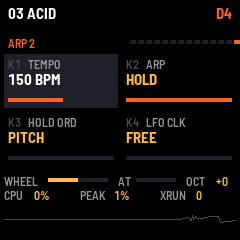
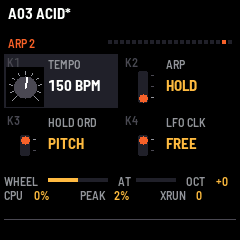
MB-1 0.12.1: the screen draws each parameter as the patch editor does
A knob (a choice's positions as a rotary switch's), a fader for the mixer's levels and the envelopes, a slide
switch for the two- and three-way choices; the value beside it, as large as fits. The manual's pictures redone.

Claude-Session: https://claude.ai/code/session_015VhpbL4VK8RUpw8F1mPpMk

diff --git a/app/app.c b/app/app.c
@@ -1330,6 +1330,72 @@ static void bar(int32_t x, int32_t y, int32_t w, uint32_t v, uint32_t max, int b
     }
 }
 
+/* a parameter drawn as the editor draws it (app/editor/index.html): a knob, a fader (the mixer's levels, the
+ * envelopes) or a slide switch (the two- and three-way choices); the knobs' choices click round as rotary switches */
+enum { K_KNOB, K_FADER, K_SWITCH };
+static uint32_t ctl_kind(uint32_t p)
+{
+    switch (p) {
+    case P_SUB: case P_SAW: case P_SQR: case P_TRI: case P_NOISE:
+    case P_FA: case P_FD: case P_FS: case P_FR: case P_AA: case P_AD: case P_AS: case P_AR:
+        return K_FADER;
+    case P_SUBSHP: case P_SUBOCT: case P_WDEST: case P_PLAY: case P_VTYPE: case P_LRTRG: case P_ARP:
+    case P_DSYNC: case P_DMODE: case P_FXORD: case G_HORD: case G_LSYNC:
+        return K_SWITCH;
+    default:
+        return K_KNOB;
+    }
+}
+static void disk(int32_t cx, int32_t cy, int32_t r, uint16_t c)
+{
+    int32_t dy;
+    for (dy = -r; dy <= r; dy++) {
+        int32_t w = (int32_t)(fm_sqrtf((float)(r * r - dy * dy)) + 0.5f);
+        cv_rect(cx - w, cy + dy, 2 * w + 1, 1, c);
+    }
+}
+static void ray(int32_t cx, int32_t cy, float deg, float r0, float r1, uint16_t c)   /* 0 deg: up, clockwise */
+{
+    float a = deg * 0.017453293f, sx = fm_sinf(a), sy = -fm_cosf(a);
+    cv_line(cx + (int32_t)(sx * r0 + (sx < 0 ? -0.5f : 0.5f)), cy + (int32_t)(sy * r0 + (sy < 0 ? -0.5f : 0.5f)),
+            cx + (int32_t)(sx * r1 + (sx < 0 ? -0.5f : 0.5f)), cy + (int32_t)(sy * r1 + (sy < 0 ? -0.5f : 0.5f)), c);
+}
+static void ctl_draw(uint32_t p, uint32_t v, int32_t cx, int32_t cy, int lit)
+{
+    uint32_t max = pmax(p), kind = ctl_kind(p), k;
+    uint16_t hand = lit ? C_WHITE : C_ACCENT;
+    if (kind == K_FADER) {                   /* a slot, a cap at the level, ticks beside */
+        int32_t top = cy - 19, h = 38, at = top + h - (int32_t)(v * (uint32_t)h / (max ? max : 1u));
+        for (k = 0; k <= 4u; k++)
+            cv_rect(cx + 8, top + (int32_t)k * h / 4, 4, 1, C_GRAY);
+        cv_rect(cx - 2, top, 4, h + 1, C_LINE);
+        cv_rect(cx - 7, at - 2, 14, 5, hand);
+    } else if (kind == K_SWITCH) {           /* a rounded slot, the dot at its position (the first at the top) */
+        uint32_t n = max + 1u;
+        int32_t gap = 11, h = gap * (int32_t)(n - 1u) + 12, top = cy - h / 2;
+        cv_rect(cx - 5, top + 2, 10, h - 4, C_LINE);
+        cv_rect(cx - 4, top + 1, 8, h - 2, C_LINE);
+        for (k = 0; k < n; k++)
+            cv_rect(cx + 8, top + 5 + (int32_t)k * gap, 3, 1, k == v ? C_GRAY : C_DIM);
+        disk(cx, top + 6 + (int32_t)(v < n ? v : 0u) * gap, 4, hand);
+    } else {                                 /* a knob: its ticks (a choice's positions), the cap, the pointer */
+        int en = is_enum(pinfo(p)->type), bip = pinfo(p)->type == T_BIP;
+        uint32_t n = en ? max + 1u : 11u;
+        float step = en ? (270.0f / (float)(n - 1u) < 45.0f ? 270.0f / (float)(n - 1u) : 45.0f) : 27.0f;
+        float a0 = -step * (float)(n - 1u) * 0.5f;
+        for (k = 0; k < n; k++)
+            ray(cx, cy, a0 + step * (float)k, 13.0f, (bip && k == 5u) || k == 0u || k + 1u == n ? 18.0f : 16.0f,
+                en && k == v ? C_WHITE : C_GRAY);
+        disk(cx, cy, 11, C_DIM);
+        {   /* the pointer: three strokes wide */
+            float a = en ? a0 + step * (float)(v < n ? v : 0u) : -135.0f + 270.0f * (float)v / (float)(max ? max : 1u);
+            ray(cx, cy, a, 0.0f, 10.0f, hand);
+            ray(cx + 1, cy, a, 0.0f, 10.0f, hand);
+            ray(cx, cy + 1, a, 0.0f, 10.0f, hand);
+        }
+    }
+}
+
 static uint32_t cpu_peak;
 
 static void draw(void)
@@ -1384,11 +1450,16 @@ static void draw(void)
         v = pget(p);
         k[1] = (char)('1' + i);
         cv_rect(x, y, 114, 54, lit ? C_LINE : C_BLACK);
-        cv_text(x + 4, y + 3, &FONT_XS, k, C_DIM);
-        cv_text(x + 24, y + 3, &FONT_XS, pinfo(p)->name, C_GRAY);
+        if (lit)                             /* (the control's own ground, so its slot shows) */
+            cv_rect(x + 2, y + 13, 38, 40, C_BLACK);
+        cv_text(x + 3, y + 1, &FONT_XS, k, C_DIM);
+        ctl_draw(p, v, x + 21, y + 33, lit);
+        cv_text(x + 44, y + 3, &FONT_XS, pinfo(p)->name, C_GRAY);
         value_text(p, v, t);
-        cv_text(x + 4, y + 18, &FONT_B, t, lit ? C_WHITE : C_HI);
-        bar(x + 4, y + 44, 106, v, pmax(p), pinfo(p)->type == T_BIP, C_ACCENT);
+        {   /* the value: as large as fits beside the control */
+            const felucca_font_t *f = text_w(&FONT_B, t) <= 68 ? &FONT_B : text_w(&FONT_S, t) <= 68 ? &FONT_S : &FONT_XS;
+            cv_text(x + 44, y + 24, f, t, lit ? C_WHITE : C_HI);
+        }
     }
     cv_blit(0, 36);
     /* the foot: the wheel, the pressure, the octave, and the scope */

diff --git a/app/docs/MANUAL.md b/app/docs/MANUAL.md
@@ -8,7 +8,7 @@ another, let it go, and the first comes back (with glide, if GLIDE is up).
 ## The screen
 
 At the top: the patch slot and its name (a `*` when it has changed since it was saved) and the note playing. In the
-middle: the page, and its four parameters, one for each of K1..K4, with their values and bars. At the bottom: the mod
+middle: the page, and its four parameters, one for each of K1..K4, each drawn as on the patch editor's sheet (a knob, a fader for the mixer and the envelopes, a slide switch for the two- and three-way choices) with its value. At the bottom: the mod
 wheel, the keys' pressure (aftertouch), the octave, the audio load (CPU: now, PEAK: the most since power-on, in % of the time the FM-1 has for each block of sound; XRUN: blocks it missed, heard as clicks), and the sound as a scope.
 
 ## The controls
